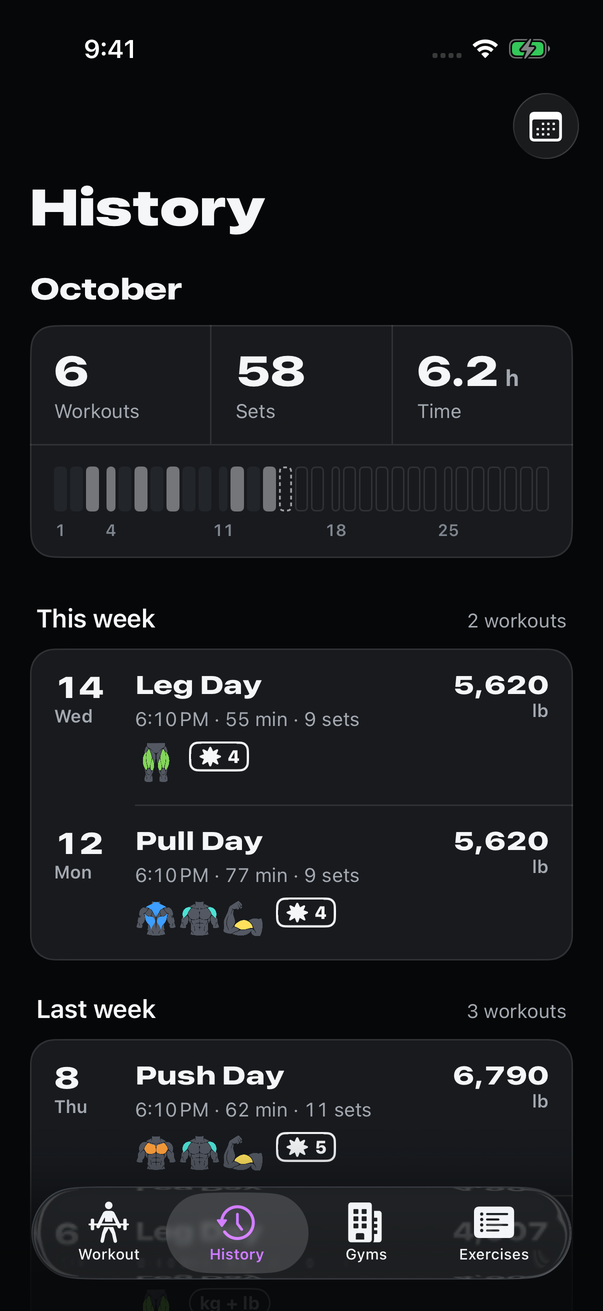
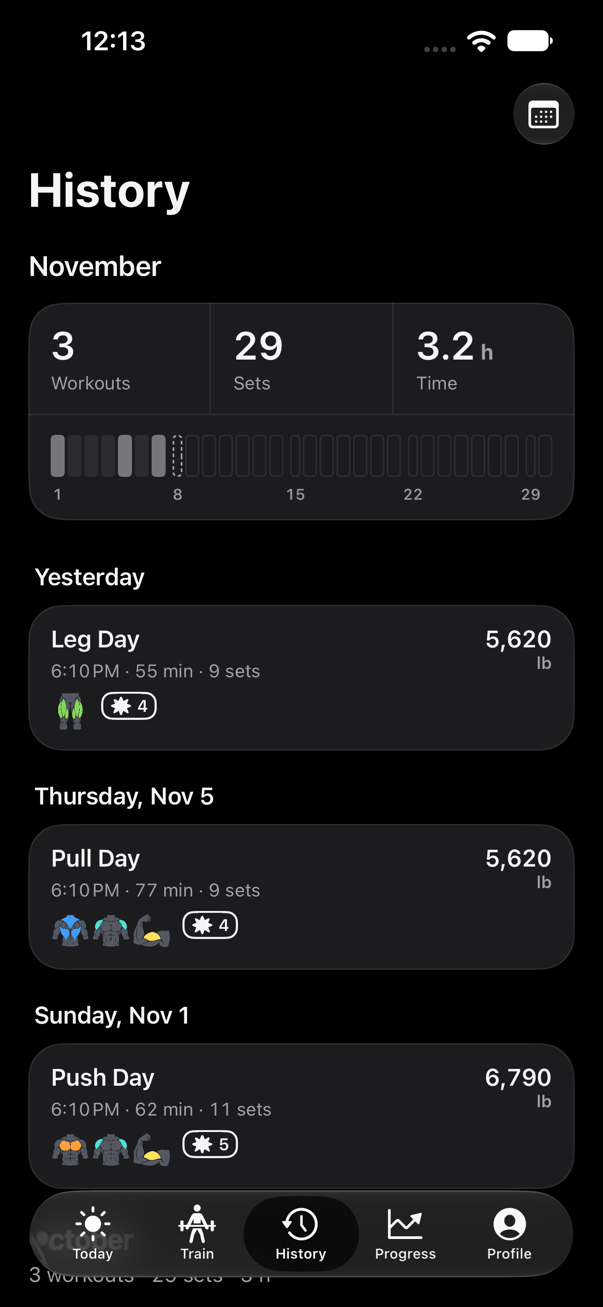
README: five tabs, History journal, Training charts, Profile; screenshots retaken in the Soft look (Phase 1 captures)
Claude-Session: https://claude.ai/code/session_017cMa8tp5a7Mtxu2J48nXNA

diff --git a/README.md b/README.md
@@ -15,20 +15,22 @@ machine first, per equipment model second, and per exercise only as a last resor
 labelled so you know what you're comparing against. Sets are prefilled only from that same
 machine.
 
-<!-- Screenshots in docs/readme/: Floodlight capture UI tests (dark, default text size, built-in sample data),
-taken 2026-10-15 and halved in size. Retake them when a shown screen changes visibly (AGENTS.md). -->
+<!-- Screenshots in docs/readme/: the capture UI tests' Soft look (dark, default text size, built-in sample data),
+taken 2026-11-08 and resized to 603 px wide. Retake them when a shown screen changes visibly (AGENTS.md). -->
 <p>
-<img src="docs/readme/workout.png" width="150" alt="The Workout tab: gym, start buttons, this week and templates">
+<img src="docs/readme/workout.png" width="150" alt="The Train tab: gym, the template up next, start buttons and other templates">
 <img src="docs/readme/live-workout.png" width="150" alt="Logging sets during a workout, with the rest timer">
 <img src="docs/readme/gyms.png" width="150" alt="A gym and its machines, with Scan Machine">
 <img src="docs/readme/cardio.png" width="150" alt="An indoor run in progress">
-<img src="docs/readme/history.png" width="150" alt="History: the month and recent workouts">
+<img src="docs/readme/history.png" width="150" alt="History: the month, then each day's workouts">
 <img src="docs/readme/progress.png" width="150" alt="Progress: pinned charts of a lift and a run">
 <img src="docs/readme/ai-routine.png" width="150" alt="Ask AI's suggested week of templates">
 </p>
 
 ## What it does
 
+- **Five tabs.** Today (this week, start or resume a workout, today's log), Train (templates, gyms and
+  exercises), History, Progress and Profile (your account and settings).
 - **Gyms and machines.** Each gym has its own machines. Adding one can read its name plate on
   the phone and match it against a seeded catalog of 1,877 equipment models from 23
   manufacturers.
@@ -44,19 +46,20 @@ taken 2026-10-15 and halved in size. Retake them when a shown screen changes vis
 - **Heart rate and Apple Health.** Live bpm from AirPods Pro 3 or a paired heart-rate monitor,
   zones, calories and a heart-rate rest timer; workouts are saved to Apple Health. (An Apple
   Watch companion is written but not yet built or shipped.)
-- **History.** A calendar, per-session detail with editing (down to removing one set, exercise or
+- **History.** A journal by day (Today, Yesterday, then each date) under a month summary, a calendar, per-session detail with editing (down to removing one set, exercise or
   cardio activity), records, progress charts per exercise and variation, and export of your
   workouts as JSON (the fullest record, with heart-rate series and routes) or CSV (a table of
   sets and cardio).
 - **Progress.** A tab of the charts you pin — lifts per machine or weight (best set, volume,
   1RM) and cardio activities (distance, pace or speed, time) — each with its latest value and
-  the change since your first session; tap one for the full chart, its bests and sessions. Add Chart
-  lists the exercises you've logged by body area.
+  the change since your first session — plus training-wide weekly charts (workouts, training volume, running
+  distance). Tap one for the full chart, its bests and sessions; its "…" or a long-press moves or removes it.
+  Add Chart lists the exercises you've logged by body area.
 - **Optional account and AI.** Sign in with Apple or Google to identify a machine from a
   photo, get exercise suggestions for a new machine, or have Ask AI build a week of
   templates from your training profile. Each AI feature asks first and has a daily limit.
 - **Onboarding and feedback.** A guided tour of the real app on sample data, a one-time
-  What's New page after a big update (and in Settings), and Settings → Send Feedback with an
+  What's New page after a big update (and in Profile), and Profile → Send Feedback with an
   optional screenshot.
 
 ## Privacy
@@ -97,7 +100,7 @@ in this repository.
 
 | Folder | What it holds |
 |---|---|
-| `WorkoutTracker/` | The app: `App/`, `Domain/` (SwiftData models and pure logic), `Features/` (one folder per area: workout, cardio, gyms, exercises, templates, history, progress, settings, account, onboarding), `Resources/` (the seeded catalog) |
+| `WorkoutTracker/` | The app: `App/`, `Domain/` (SwiftData models and pure logic), `Features/` (one folder per area: today, train, workout, cardio, gyms, exercises, templates, history, progress, settings, account, onboarding), `Resources/` (the seeded catalog) |
 | `WorkoutTrackerTests/`, `WorkoutTrackerUITests/` | Unit tests (Swift Testing) and end-to-end UI tests (XCTest) |
 | `WorkoutTrackerWidget/` | The Live Activity: the running workout and its rest timer on the Lock Screen |
 | `WorkoutTrackerWatch/` | An Apple Watch companion (workout session, heart rate, phone link) — written, never built or run, not in the beta |
